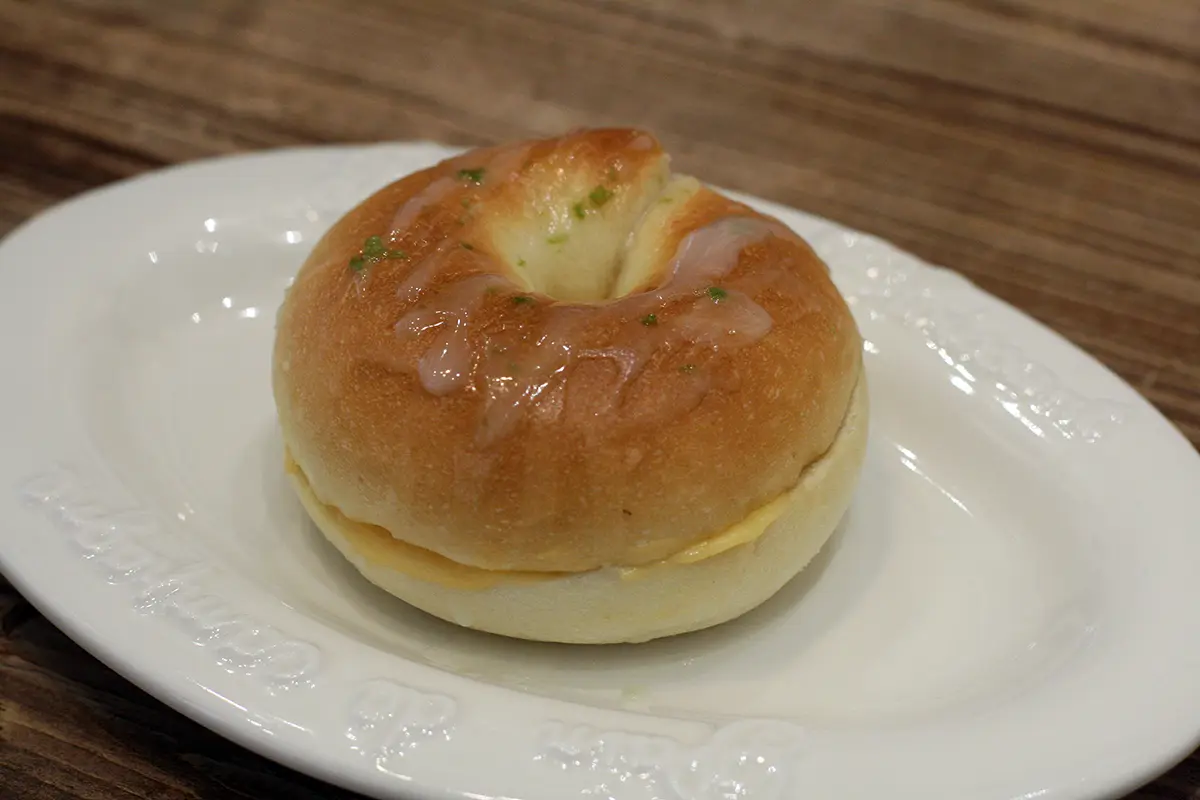
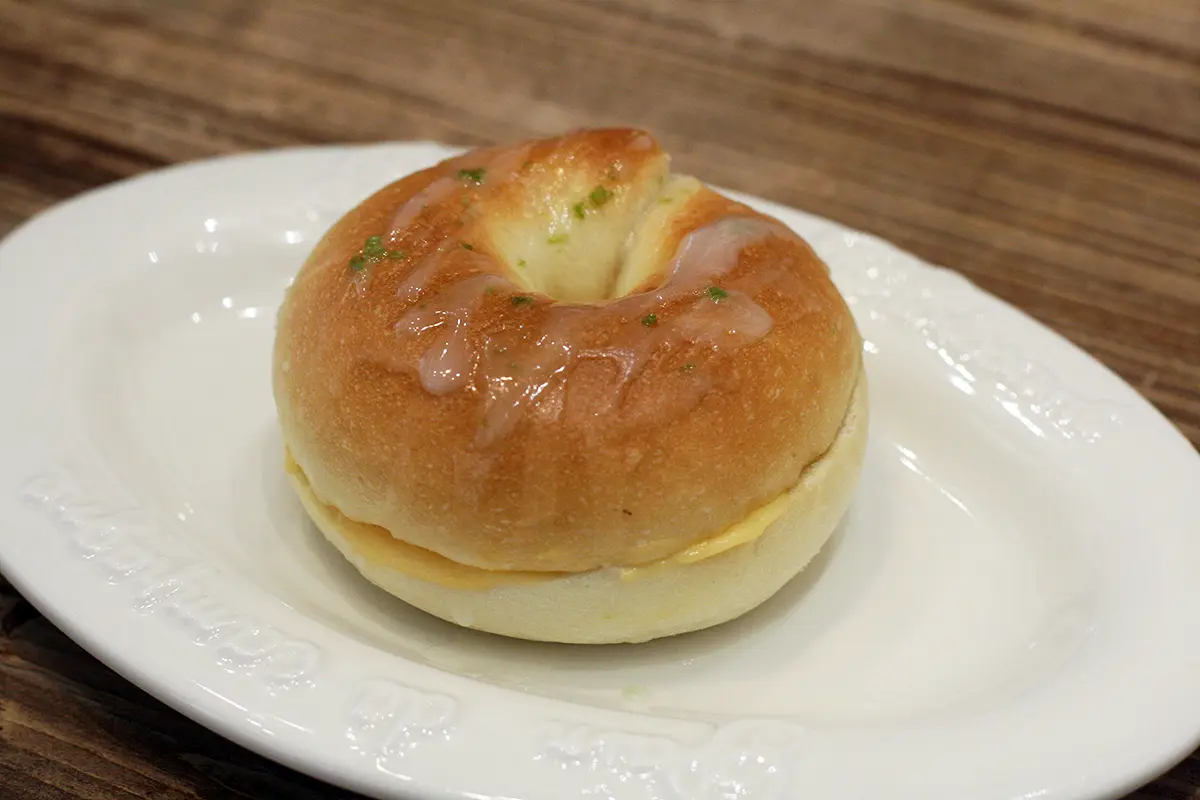
上檸檬冰心

Changed region(s): [[0.0, 0.125, 1.0, 1.0], [0.9867, 0.8125, 1.0, 0.8438], [0.4317, 0.5625, 0.4625, 0.5938]]

diff --git a/index.html b/index.html
@@ -103,7 +103,17 @@
     <!-- 貝果口味 -->
 <pageBrief>
     <mmenu>
-        <div class="row" id="foodType">
+        <div class="col-md-4 col-sm-6">
+            <img class='thumbPic' src='img/bagel/csscj2.jpg'></img>
+            <p class='ttItem'>檸檬冰心<small>　蛋奶素</small><span class='small redTag'>　新品　</span></p>
+                <ul class="list-unstyled">
+                    <li class='ttPrize'>定價：每個 NT$65</li>
+                </ul>
+            <p class="ttItemIntro">
+                檸檬及友善飼養的新鮮雞蛋製作的檸檬冰心醬，冷凍回溫15～20分鐘，像似貝果夾著酸甜檸檬冰淇淋，再回溫一點猶如流心留住你的心！一定一定要冰冰的吃喔！
+            </p>
+        </div>
+        <!-- <div class="row" id="foodType">
             <div class="col-md-4 col-sm-6">
                 <img class='thumbPic' src='img/bagel/rldg0.jpg'></img>
                 <p class='ttItem'>乳酪蛋糕 貝果<small>　奶素　</small></p>
@@ -113,7 +123,7 @@
                 <p class="ttItemIntro">
                     微妙的跳脫乳酪蛋糕的口感，卻有宛如乳酪甜點般令人眷戀的滋味！
                 </p>
-            </div>
+            </div> -->
             <div class="col-md-4 col-sm-6">
                 <img class='thumbPic' src='img/bagel/csscj2.jpg'></img>
                 <p class='ttItem'>起司三重奏 2.0 版<small>　奶素</small></p>
